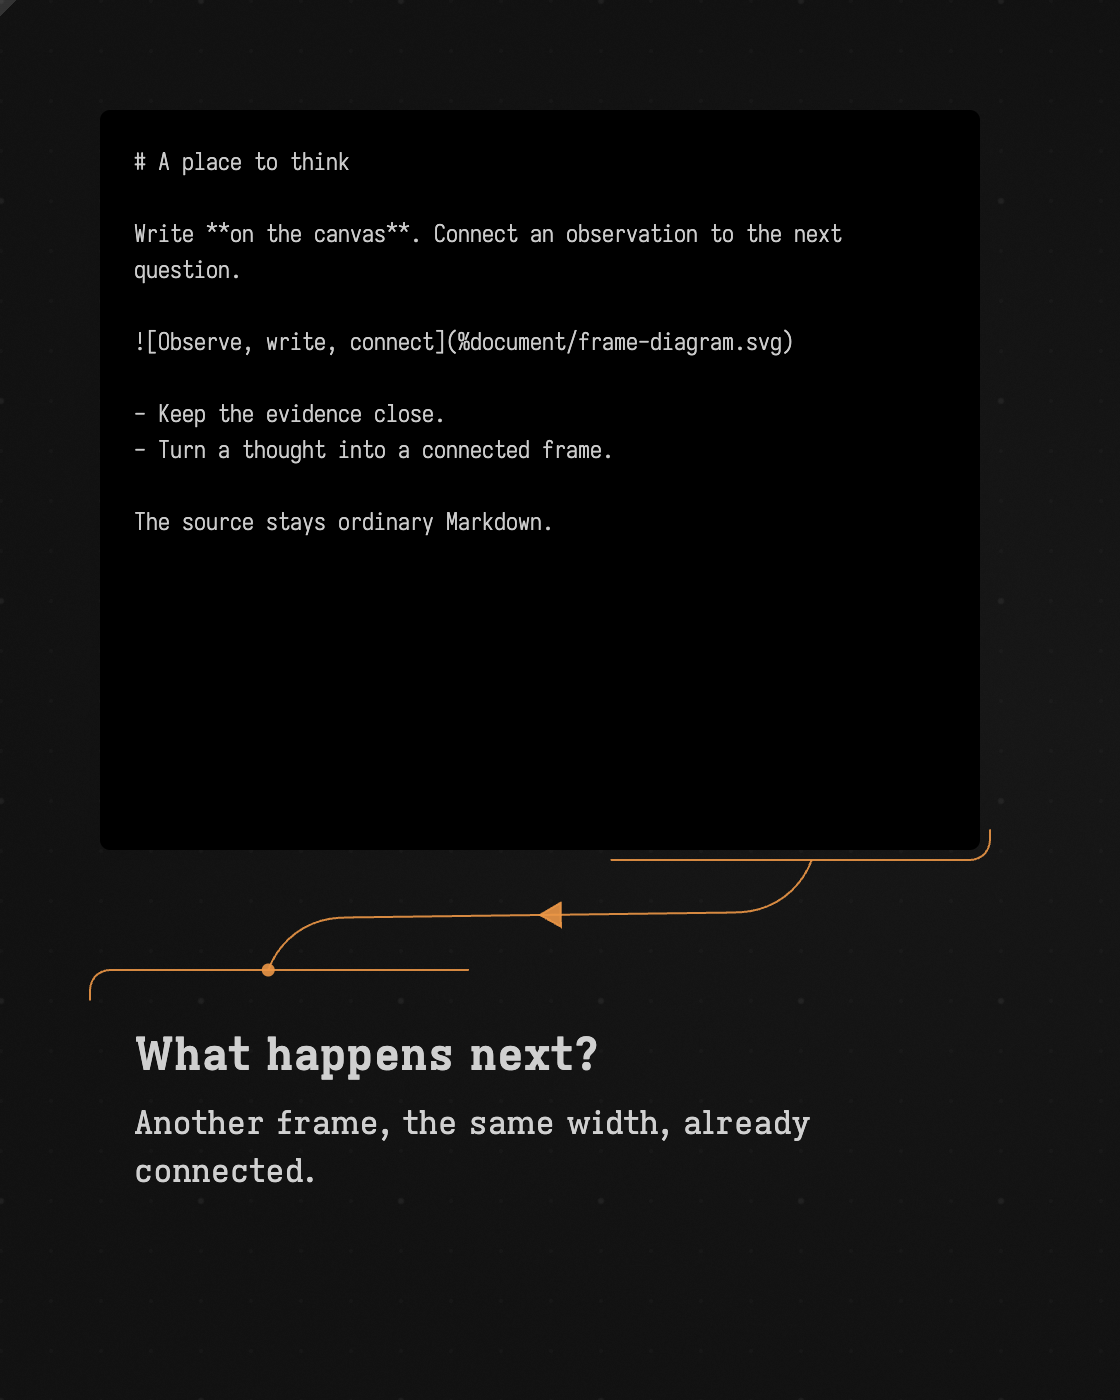
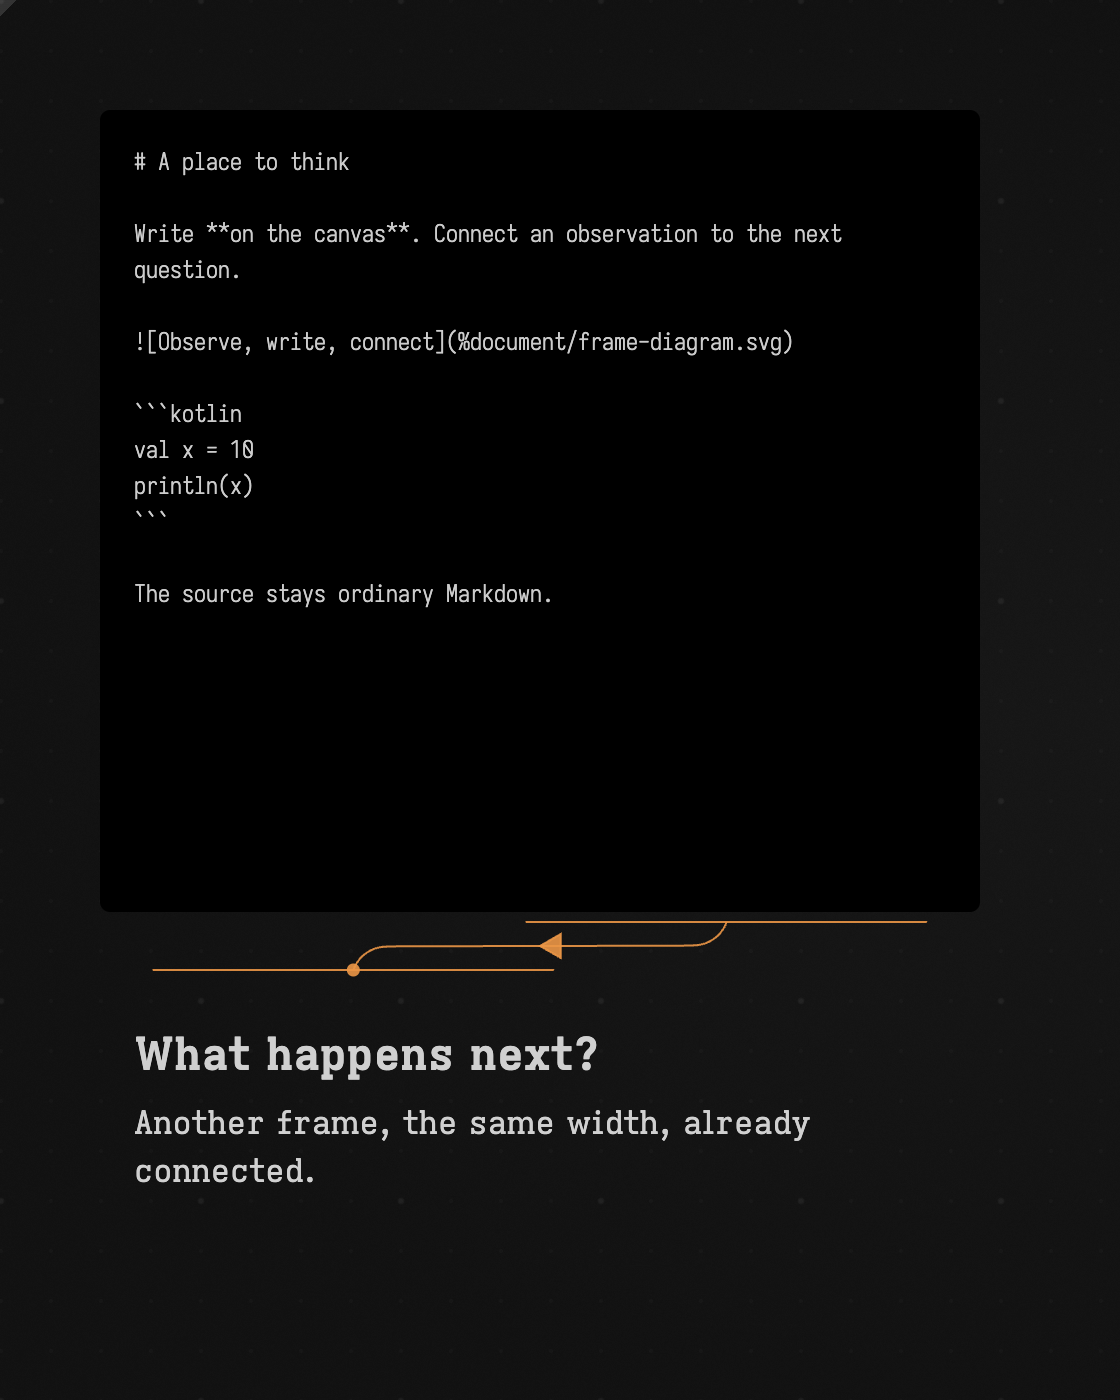
Add text-frame reading styles and soften ordinary connection bends

diff --git a/src/commonMain/resources/textFrames.js b/src/commonMain/resources/textFrames.js
@@ -6,7 +6,7 @@ import {load, dump, CORE_SCHEMA} from './vendor/js-yaml/js-yaml.mjs';
 
 // Text belongs to the box. DOM, editing state and uncommitted conflict drafts are local to a view.
 const frames = new Map();
-const defaults = {fontFamily: '"Field Etoile", serif', fontSize: 11, fontWeight: 400, lineHeight: 1.5, padding: 16, sizing: 'grow', connectionBorderLength: 100, autocomplete: false, minHeight: 80, reflow: true};
+const defaults = {fontFamily: '"Field Etoile", serif', fontSize: 11, fontWeight: 400, fontStyle: 'normal', color: 'inherit', backgroundColor: 'transparent', textAlign: 'left', letterSpacing: 'normal', lineHeight: 1.5, padding: 16, sizing: 'grow', connectionBorderLength: 100, autocomplete: false, minHeight: 80, reflow: true};
 const node = (tag, cls, text) => {
     const result = document.createElement(tag);
     result.className = cls;
@@ -80,9 +80,17 @@ function settingsFor(box) {
     try { raw = readSettings(box.textFrame); } catch (_) { return frames.get(box)?.config || defaults; }
     const number = (key, low, high) => Number.isFinite(Number(raw[key])) && raw[key] !== null
         ? Math.max(low, Math.min(high, Number(raw[key]))) : defaults[key];
+    const css = (key, property) => {
+        const value = key === 'letterSpacing' && typeof raw[key] === 'number' && Number.isFinite(raw[key])
+            ? `${raw[key]}px` : typeof raw[key] === 'string' ? raw[key].trim() : '';
+        return value && CSS.supports(property, value) ? value : defaults[key];
+    };
     const config = {...raw,
         fontFamily: typeof raw.fontFamily === 'string' && raw.fontFamily.trim() ? raw.fontFamily : defaults.fontFamily,
         fontSize: number('fontSize', 8, 120), fontWeight: number('fontWeight', 100, 900), lineHeight: number('lineHeight', 1, 3), padding: number('padding', 0, 96),
+        color: css('color', 'color'), backgroundColor: css('backgroundColor', 'background-color'),
+        textAlign: css('textAlign', 'text-align'), fontStyle: css('fontStyle', 'font-style'),
+        letterSpacing: css('letterSpacing', 'letter-spacing'),
         connectionBorderLength: number('connectionBorderLength', 0, 200),
         minHeight: number('minHeight', 40, 2000), reflow: raw.reflow !== false,
         sizing: raw.sizing === 'fixed' ? 'fixed' : 'grow'};
@@ -137,6 +145,11 @@ function layout(state) {
         state.box.style.setProperty('--text-frame-font', config.fontFamily);
         state.box.style.setProperty('--text-frame-size', `${config.fontSize}px`);
         state.box.style.setProperty('--text-frame-weight', config.fontWeight);
+        state.box.style.setProperty('--text-frame-color', config.color);
+        state.box.style.setProperty('--text-frame-fill', config.backgroundColor);
+        state.box.style.setProperty('--text-frame-align', config.textAlign);
+        state.box.style.setProperty('--text-frame-style', config.fontStyle);
+        state.box.style.setProperty('--text-frame-tracking', config.letterSpacing);
         state.box.style.setProperty('--text-frame-leading', config.lineHeight);
         state.box.style.setProperty('--text-frame-padding', `${config.padding}px`);
         const editing = state.box.classList.contains('text-frame-editing');

diff --git a/src/jsMain/kotlin/gestures.kt b/src/jsMain/kotlin/gestures.kt
@@ -215,16 +215,22 @@ private fun connect_center_with_terminal(
     val straight = a.point.distance(b.point)
     val maxAllowedRadius = max(1.0, straight / 3.1)
     var radius = min(dubinsMinRadius, maxAllowedRadius)
-    if ((a_box.classList.contains("text-frame-box") && terminals.start.style != ConnectionTerminalStyle.PerpendicularTick) ||
-        (b_box.classList.contains("text-frame-box") && terminals.end.style != ConnectionTerminalStyle.PerpendicularTick)) {
-        // Corner anchors can cross a wide frame through a very narrow gap. Limit the turn by
-        // room along the endpoint normals, rather than by the much longer diagonal distance.
-        val dx = b.point.x - a.point.x
-        val dy = b.point.y - a.point.y
-        val exitRoom = max(0.0, dx * a.normal.x + dy * a.normal.y)
-        val entryRoom = max(0.0, -dx * b.normal.x - dy * b.normal.y)
-        radius = min(radius, max(1.0 / mainZoom, min(exitRoom, entryRoom) / 2.0))
-        radius *= 1.15
+    val dx = b.point.x - a.point.x
+    val dy = b.point.y - a.point.y
+    val exitRoom = max(0.0, dx * a.normal.x + dy * a.normal.y)
+    val entryRoom = max(0.0, -dx * b.normal.x - dy * b.normal.y)
+    val room = min(exitRoom, entryRoom)
+    val textToText = a_box.classList.contains("text-frame-box") && b_box.classList.contains("text-frame-box") &&
+        terminals.start.style != ConnectionTerminalStyle.PerpendicularTick && terminals.end.style != ConnectionTerminalStyle.PerpendicularTick
+    if (textToText) {
+        // Preserve the deliberate switchback on text-frame connections.
+        radius = min(radius, max(1.0 / mainZoom, room / 2.0)) * 1.15
+    } else {
+        // Ease towards the available turning room: almost the usual radius at long distances,
+        // tending to half the gap nearby. No hard threshold, and no large loop to meet a radius
+        // that the gap cannot fit. Keep the existing centre-ray attachments for ordinary boxes.
+        radius = if (room > 1e-6) max(1.0 / mainZoom, room * -expm1(-2.0 * radius / room) / 2.0)
+            else min(radius, 1.0 / mainZoom)
     }
 
     val key = "${(a_box.asDynamic().uid ?: a_box.hashCode()).toString()}->${(b_box.asDynamic().uid ?: b_box.hashCode()).toString()}"
@@ -283,6 +289,9 @@ private fun connect_center_with_terminal(
         strokeWidth = 1
         fill = "none"
         this.path.setAttribute("opacity", drawOpacity.toString())
+        this.path.setAttribute("data-connection-from", elementUidOrNull(a_box) ?: "")
+        this.path.setAttribute("data-connection-to", elementUidOrNull(b_box) ?: "")
+        this.path.setAttribute("data-connection-radius", radius.toString())
         appendTo(svg)
     }
 

diff --git a/tools/ui_regressions/text-frames.js b/tools/ui_regressions/text-frames.js
@@ -79,6 +79,24 @@ const yaml = '# Reader typography\nfontWeight: 300\nfontSize: 22\nsizing: grow\n
 send('set-string', {uid: box.uid, property: 'textFrame', value: yaml});
 await wait(() => getComputedStyle(preview).fontWeight === '300', 'YAML light weight did not apply');
 check(getComputedStyle(preview.querySelector('p')).fontSize === '22px', 'Reader paragraphs ignored YAML font size');
+const beforeStyled=box.contents;
+const styled=yaml+'color: "#91d3b5"\nbackgroundColor: "#101820"\ntextAlign: right\nfontStyle: italic\nletterSpacing: 1.25\n';
+send('set-string',{uid:box.uid,property:'textFrame',value:styled});
+await wait(()=>getComputedStyle(preview).color==='rgb(145, 211, 181)','CSS text color did not apply');
+check(getComputedStyle(preview).backgroundColor==='rgb(16, 24, 32)'&&getComputedStyle(preview).textAlign==='right'&&getComputedStyle(preview).fontStyle==='italic'&&getComputedStyle(preview).letterSpacing==='1.25px','CSS reading settings were not applied');
+send('set-string',{uid:box.uid,property:'contents',value:'# Code notes\n\n```kotlin\nval x = 10\nprintln(x)\n```'});
+const copy=await wait(()=>preview.querySelector('.ai-chat-copy'),'Code copy button missing');
+const copyRect=copy.getBoundingClientRect();
+check(copyRect.width>copyRect.height&&copyRect.height<40&&getComputedStyle(copy).whiteSpace==='nowrap','Copy button wrapped vertically: '+JSON.stringify({width:copyRect.width,height:copyRect.height}));
+window.editTextFrame(box);
+check(getComputedStyle(box).backgroundColor==='rgb(0, 0, 0)'&&getComputedStyle(editor).fontStyle==='normal'&&getComputedStyle(editor).letterSpacing==='normal'&&getComputedStyle(editor).color!=='rgb(145, 211, 181)','Reading CSS leaked into the Markdown editor');
+editor.dispatchEvent(new KeyboardEvent('keydown',{key:'Escape',bubbles:true,cancelable:true}));
+send('set-string',{uid:box.uid,property:'textFrame',value:yaml+'color: not-a-css-color;\nletterSpacing: invalid-space\n'});
+await wait(()=>box.textFrame.includes('invalid-space'),'Invalid CSS test did not sync');await delay(100);
+check(getComputedStyle(preview).letterSpacing==='normal','Invalid CSS was not reset to its default');
+send('set-string',{uid:box.uid,property:'contents',value:beforeStyled});
+send('set-string',{uid:box.uid,property:'textFrame',value:yaml});
+await wait(()=>box.contents===beforeStyled&&getComputedStyle(preview).fontStyle==='normal','Could not restore reading defaults');
 send('set-string', {uid: box.uid, property: 'textFrame', value: 'fontSize: [\n'});
 await wait(() => box.textFrame === 'fontSize: [\n', 'Invalid YAML did not sync');
 await delay(150);

diff --git a/tools/ui_regressions/regular-connections.js b/tools/ui_regressions/regular-connections.js
@@ -1,0 +1,29 @@
+const {send}=await import('./afield.mjs');
+const delay=ms=>new Promise(r=>setTimeout(r,ms));
+const wait=async(f,message)=>{for(let i=0;i<160;i++){const v=f();if(v)return v;await delay(50);}throw Error(message);};
+window.setAutoDisplayEditor(false);window.moveCanvasCamera(0,0,1);
+for(const b of [...window.selectedList])window.deselectBox(b);
+const box=name=>[...document.querySelectorAll('.box')].find(b=>b.name===name);
+const a=box('Curve A'),b=box('Curve B'),c=box('Curve C');
+const path=(from,to)=>document.querySelector(`path[data-connection-from="${from.uid}"][data-connection-to="${to.uid}"]`);
+for(const [from,to] of [[a,b],[b,c]]){
+ const p=await wait(()=>path(from,to),'Missing regular connection');
+ await delay(500);
+ const length=p.getTotalLength(),s=p.getPointAtLength(0),e=p.getPointAtLength(length),direct=Math.hypot(e.x-s.x,e.y-s.y);
+ if(!Number.isFinite(length)||length>direct*1.7+20)throw Error('Nearby boxes produced an oversized loop: '+JSON.stringify({length,direct}));
+}
+// The effective bend radius should ease down continuously rather than keeping a large loop.
+const radii=[];
+for(const gap of [350,160,70,25,6]){
+ const frames=[{uid:a.uid,property:'frame',value:{x:90,y:60,w:180,h:80}},{uid:b.uid,property:'frame',value:{x:90,y:140+gap,w:180,h:80}}];
+ send('set-rects',{values:frames});
+ await wait(()=>Math.abs(b.data_y-(140+gap))<.1,'Frame move did not sync');await delay(450);
+ const p=path(a,b),r=Number(p.dataset.connectionRadius);radii.push(r);
+ const length=p.getTotalLength();
+ if(!Number.isFinite(r)||r<=0||length>gap*1.1+5)throw Error('Aligned neighbours stopped connecting directly: '+JSON.stringify({gap,r,length}));
+}
+if(!radii.every((r,i)=>i===0||r<radii[i-1]))throw Error('Minimum radius did not ease with proximity: '+radii);
+send('set-rects',{values:[{uid:a.uid,property:'frame',value:{x:70,y:70,w:290,h:105}},{uid:b.uid,property:'frame',value:{x:340,y:310,w:330,h:80}}]});
+await wait(()=>a.data_x===70&&b.data_x===340,'Could not restore the demonstration layout');await delay(600);
+window.selectBox(a);
+return {ok:true,ordinaryCurves:true,proximityRadii:radii};

diff --git a/src/commonMain/resources/textFrames.css b/src/commonMain/resources/textFrames.css
@@ -62,3 +62,23 @@
 .box.text-frame-box::before { border: none !important; }
 
 .text-frame-preview strong, .text-frame-preview b { font-weight: 700; }
+
+.text-frame-preview {
+    color: var(--text-frame-color, inherit);
+    background-color: var(--text-frame-fill, transparent);
+    text-align: var(--text-frame-align, left);
+    font-style: var(--text-frame-style, normal);
+    letter-spacing: var(--text-frame-tracking, normal);
+}
+.text-frame-preview .ai-chat-copy {
+    width: max-content;
+    height: auto;
+    min-height: 24px;
+    white-space: nowrap;
+    overflow-wrap: normal;
+    letter-spacing: normal;
+    text-align: center;
+    background-image: none;
+    color: var(--field-fg, #ddd);
+    transform: none;
+}

diff --git a/tools/run_ui_regressions.py b/tools/run_ui_regressions.py
@@ -4898,6 +4898,17 @@ def tests(files: dict[str, Path], *, port: int, timeout: float) -> list[UiRegres
             screenshot=shell_join(["screenshot-window", "{screenshot}", "--timeout", pw_timeout]),
         ),
         UiRegression(
+            id="regular-connections",
+            description="Ordinary box connections retain curved routing while their minimum radius eases down near neighbouring boxes, without oversized loops.",
+            commands=[
+                "viewport 1060x760",
+                shell_join(["macro", "write", "regular_connections", "--file", str(TOOLS_ROOT / "ui_regressions/regular-connections.yaml")]),
+                "macro run regular_connections",
+                shell_join(["page-eval", "--body", "--file", str(TOOLS_ROOT / "ui_regressions/regular-connections.js"), "--timeout", pw_timeout]),
+            ],
+            screenshot=shell_join(["screenshot-window", "{screenshot}", "--timeout", pw_timeout]),
+        ),
+        UiRegression(
             id="text-frame-content",
             description="FileManager Markdown images and a box-installed backend marking menu with two nested levels and a real callback.",
             commands=[

diff --git a/public/docs/text_frames.md b/public/docs/text_frames.md
@@ -8,7 +8,7 @@ Press ++shift+n++ to make one. Double-click a passage to edit its Markdown at th
 press ++escape++, or press ++cmd+enter++ to read the formatted result. Selecting a frame and pressing
 ++enter++ also starts editing. Native spellcheck is enabled.
 
-```diffstatic_runner {data-lang=kotlin capture="ui" region="window" viewport="1060x720" clip="0,0,560,700" screenshot="assets/text_frames/reading.png" transcript="../../dev_docs/agents/transcripts/docs_capture/text_frames.yaml" document="docs-text-frames-reading" fresh-document=true hide-toasts=true padding="0" wait="0" timeout="180" embed=true hidden=true name="text-frames-reading" alt="Two connected text frames on Field's dark canvas. Research notes contain a heading, bold text, a diagram loaded through FileManager, and a short list. The next frame asks what happens next."}
+```diffstatic_runner {data-lang=kotlin capture="ui" region="window" viewport="1060x720" clip="0,0,560,700" screenshot="assets/text_frames/reading.png" transcript="../../dev_docs/agents/transcripts/docs_capture/text_frames.yaml" document="docs-text-frames-reading" fresh-document=true hide-toasts=true padding="0" wait="0" timeout="180" embed=true hidden=true name="text-frames-reading" alt="Two connected text frames on Field's dark canvas. Research notes contain a heading, bold text, a diagram loaded through FileManager, and a small Kotlin code block with a horizontal Copy button. The next frame asks what happens next."}
 ui.eval(
     "window.setAutoDisplayEditor(false);for(const b of [...window.selectedList])window.deselectBox(b);window.moveCanvasCamera(0,0,1);return true;",
 )
@@ -87,7 +87,10 @@ ui.eval(
     "window.setAutoDisplayEditor(false);window.moveCanvasCamera(0,0,1);const b=[...document.querySelectorAll('.text-frame-box')].find(b=>b.name==='Research notes');window.selectBox(b);window.openTextFrameSettings(b.uid);return true;",
 )
 ui.waitForSelector(".monaco-editor", 15000.0)
-ui.editorHeight(320)
+ui.editorHeight(420)
+ui.eval(
+    "const e=window.globalEditor,m=e.getModel(),n=m.getLineCount();e.setPosition({lineNumber:n,column:m.getLineMaxColumn(n)});return true;",
+)
 ui.pause(600)
 check(
     ui.eval(
@@ -103,6 +106,11 @@ check(
 fontFamily: '"Field Etoile", serif'
 fontSize: 11
 fontWeight: 400
+fontStyle: normal
+color: inherit
+backgroundColor: transparent
+textAlign: left
+letterSpacing: normal
 lineHeight: 1.5
 padding: 16
 sizing: grow
@@ -111,6 +119,11 @@ reflow: true
 connectionBorderLength: 100
 autocomplete: false
 ```
+
+`color` and `backgroundColor` take CSS colors; quote hex values such as `"#b6e3c5"` in YAML.
+Use `textAlign: center`, `fontStyle: italic`, or `letterSpacing: 0.02em` to change the reading style.
+A numeric `letterSpacing` means pixels. Invalid CSS values fall back to the defaults. These settings
+apply to formatted text; the Markdown editor keeps Field's normal text color and its black background.
 
 Use `fontWeight: 300` for light text, `sizing: fixed` for clipping, or `reflow: false` to resize without
 moving other frames. `connectionBorderLength` is the trace length on either side of an arrow attachment,
